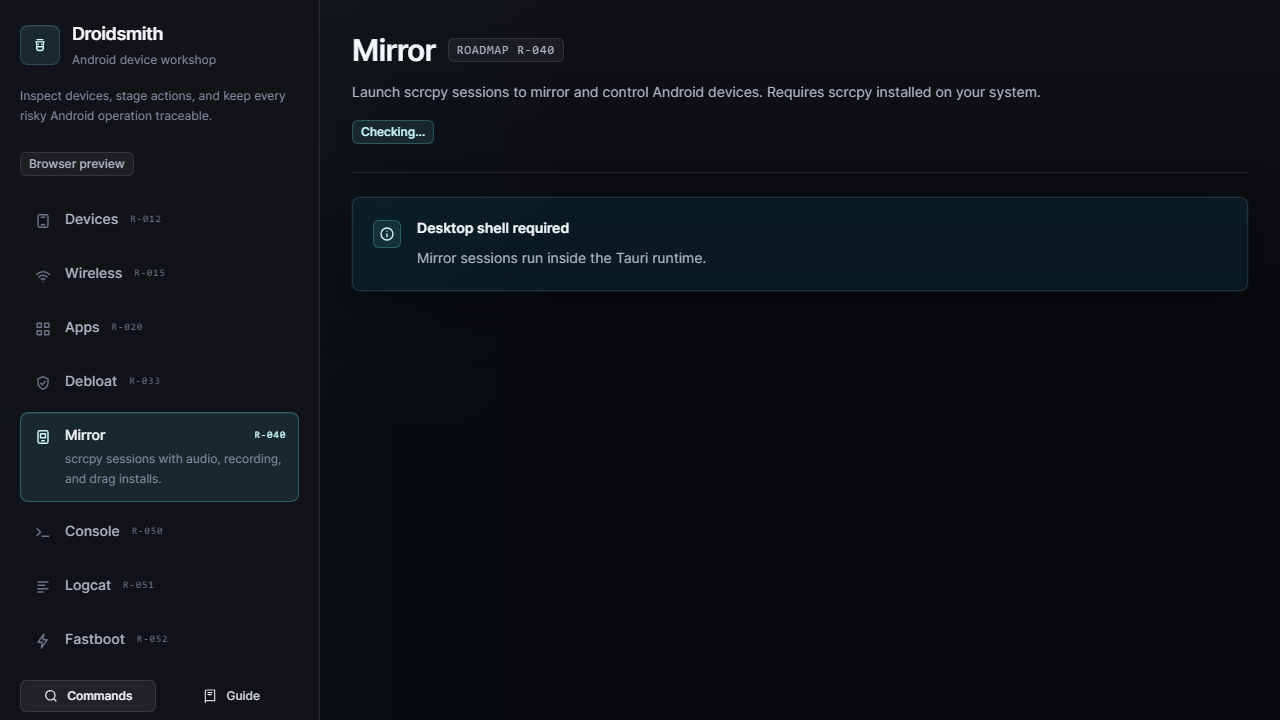
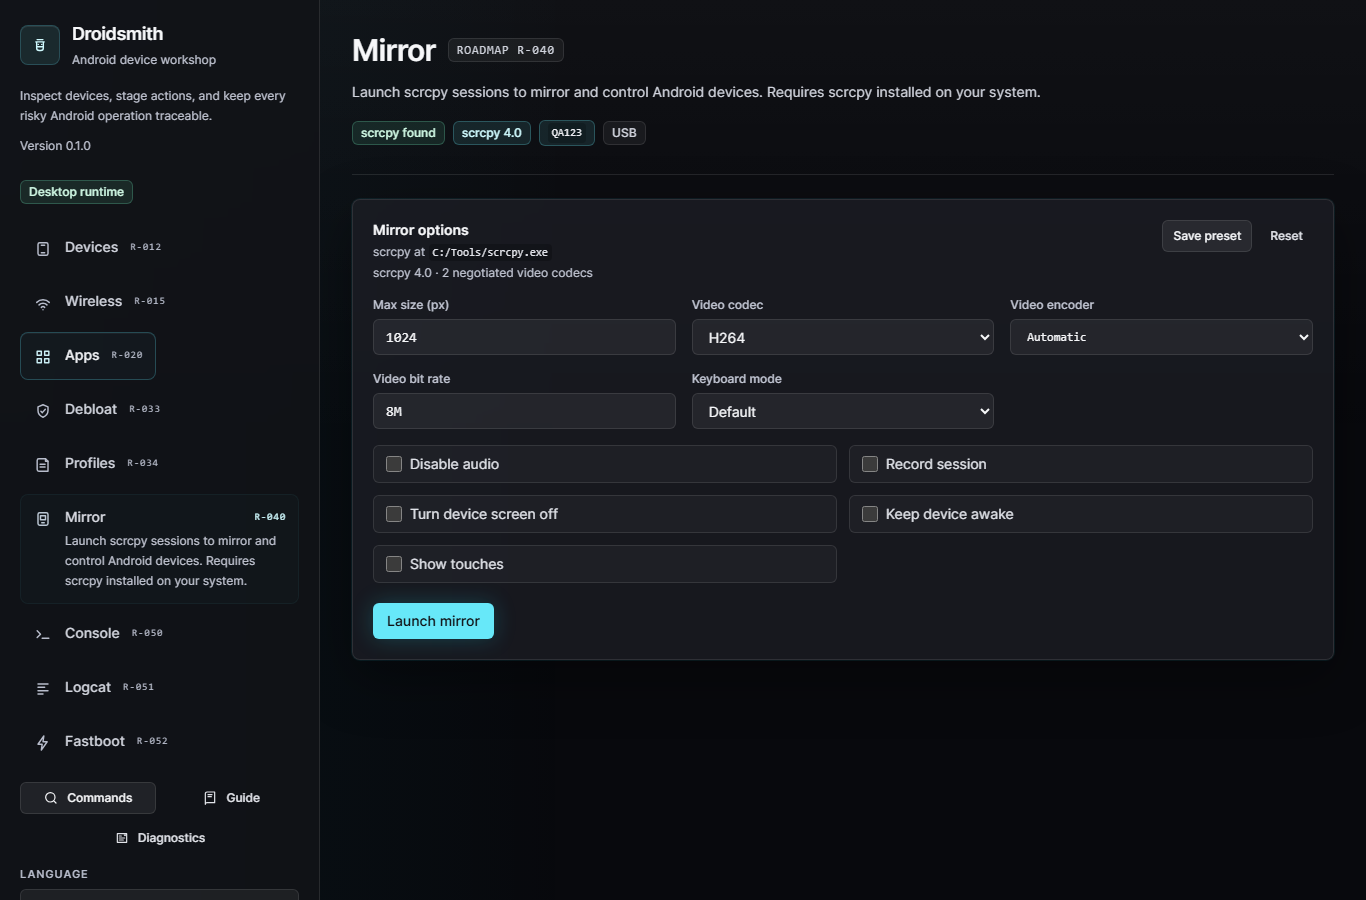
docs(screenshots): regenerate README captures from mocked-native state
The Apps and Mirror README screenshots showed the browser-only desktop-required
placeholder rather than the workflows their captions claim. Regenerate all three
deterministically from the smoke harness's mocked-native state via a new
docs:screenshots task, and assert in ui:smoke that the documented routes never
render the desktop-required placeholder and survive a 390px viewport.

diff --git a/ROADMAP.md b/ROADMAP.md
@@ -25,13 +25,6 @@ instead.
 
 ### P3
 
-- [ ] P3 — Replace misleading documentation screenshots with deterministic native-state captures
-  Why: Current “Apps” and “Mirror” screenshots show the browser-only desktop-required state rather than the workflows their captions claim.
-  Evidence: `docs/screenshots/`, `README.md`; `scripts/check-rendered-routes.mjs`
-  Touches: `scripts/check-rendered-routes.mjs`, `docs/screenshots/`, `README.md`
-  Acceptance: A deterministic mocked-native capture task renders every major route at desktop and narrow widths, README captions match visible states, and a smoke assertion rejects desktop-required placeholders in published workflow screenshots.
-  Complexity: S
-
 - [ ] P3 — Desktop-polish plugin cluster: window-state, tray, and background notifications
   Why: The app forgets window size/position, has no tray presence while supervising scrcpy/logcat, and gives no OS-level feedback on device connect/disconnect or long-job completion.
   Evidence: `src-tauri/src/lib.rs:34` (dialog plugin only); Tauri v2 window-state / tray / notification plugin docs

diff --git a/README.md b/README.md
@@ -248,6 +248,11 @@ ADB health/recovery review, the redacted Diagnostics preview/save/wipe flow,
 the split-package install and explicit override-confirmation flow, cross-route
 disconnect/reconnect behavior, incremental Logcat reconnect/cancel behavior,
 unsafe-transport acknowledgement/reset behavior, and mobile/narrow overflow.
+It also sweeps every route under a non-English locale at a 200%-zoom reflow,
+drives the Apps loading/empty/error/stale-completion states, and asserts the
+documented screenshots never show the desktop-required placeholder.
+`npm run docs:screenshots` regenerates the committed README screenshots from that
+same mocked-native state.
 `npm run release:smoke` builds the frontend and Tauri bundle, checks bundled
 resource metadata, validates third-party notices, and fails if expected local
 installer artifacts are missing.